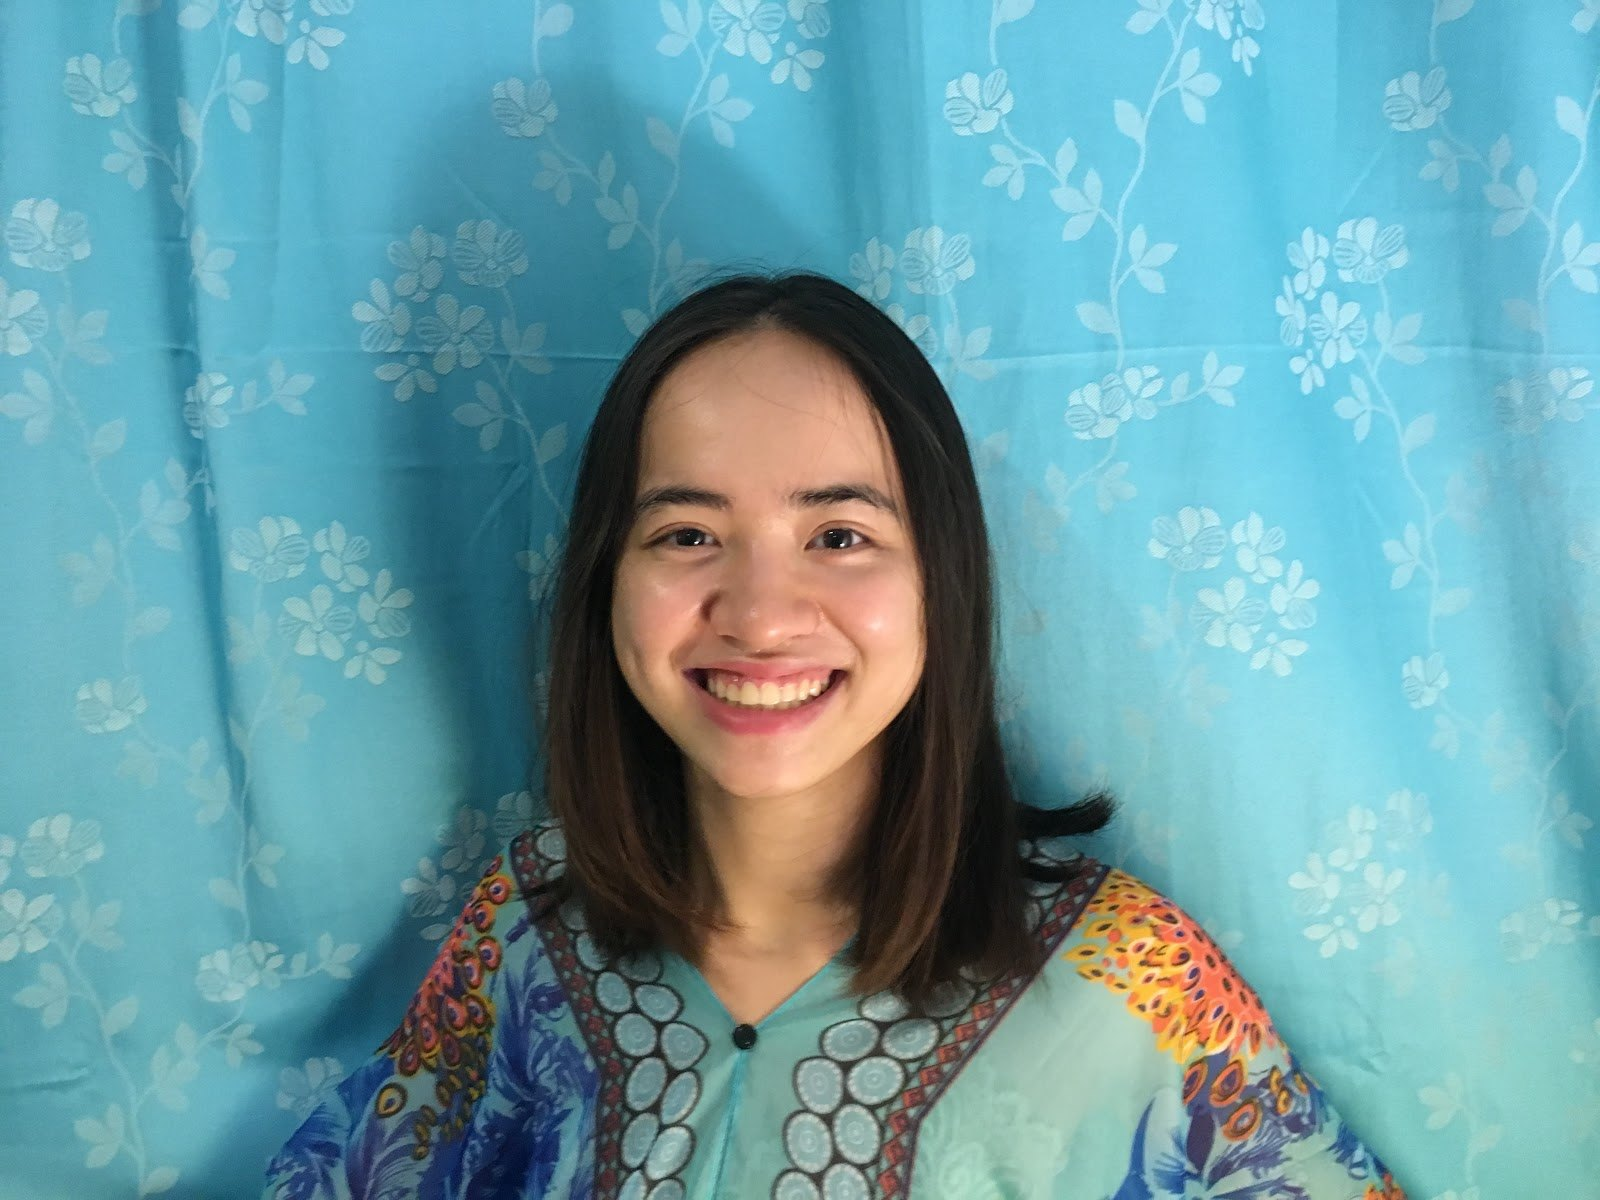
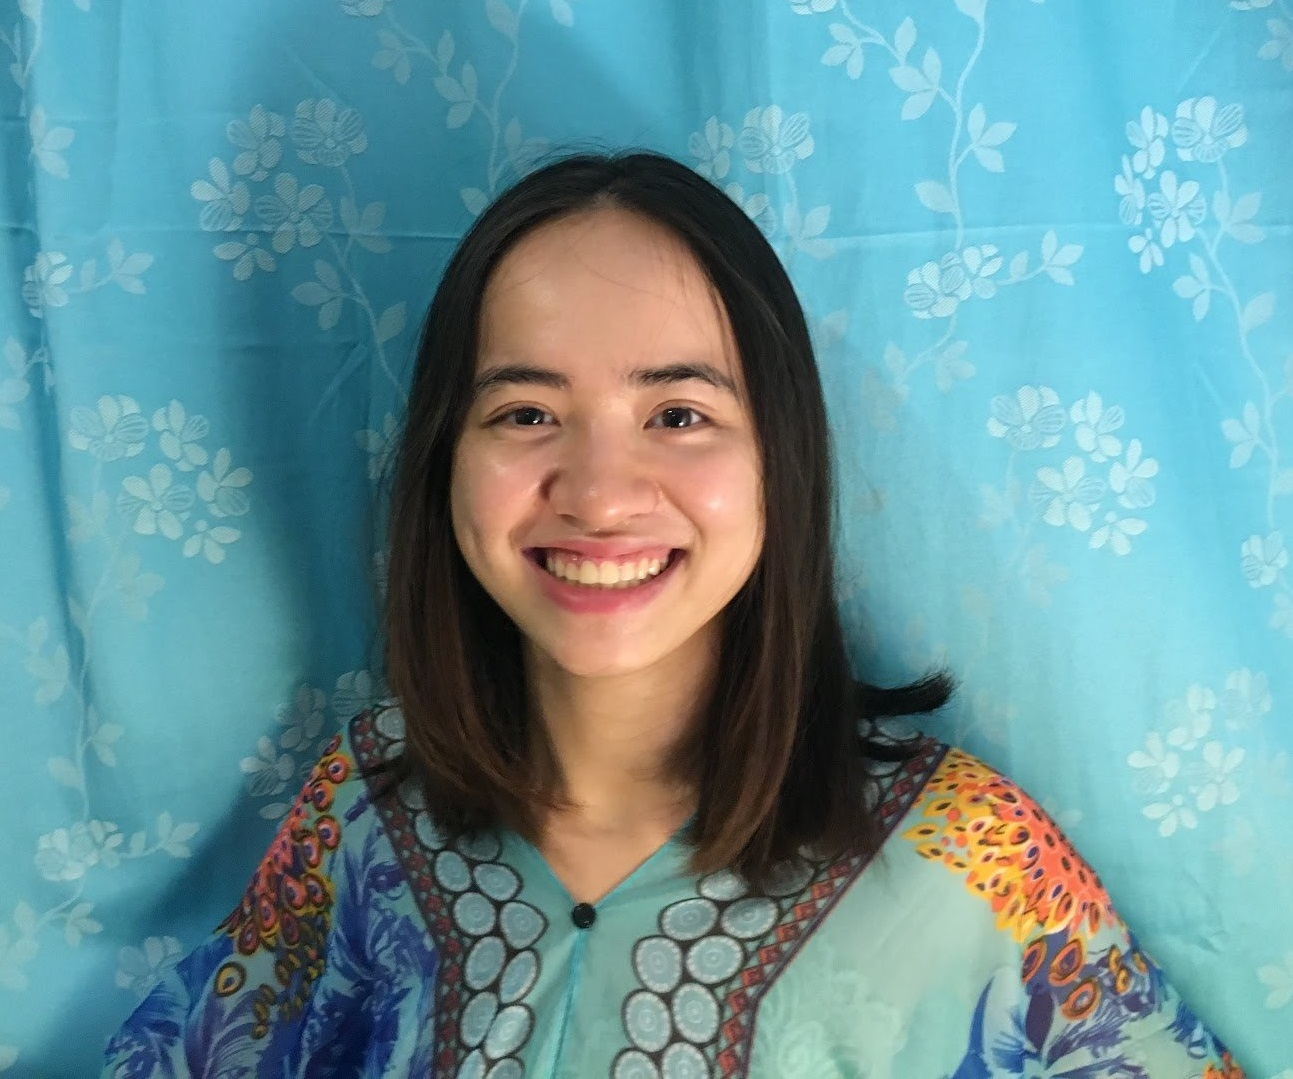
element

diff --git a/assets/css/main.css b/assets/css/main.css
@@ -193,18 +193,19 @@ input, select, textarea {
 }
 
 .about-text {
-	flex: 60%;
+	flex: 55%;
+	padding-right: 40px;
 }
 
 .about-img {
-	flex: 40%;}
+	flex: 30%;
+	}
 
 .about-img .headshot {
 	display:inline-block;
 	width:inherit;
 	height:auto;
 	border-radius:50%;
-	margin-left: 5%;
 	float:right;
 	box-shadow: 10px 10px 10px 0px rgb(206,160,220,0.5);
 }
@@ -229,13 +230,6 @@ input, select, textarea {
 	line-height:1.5em
 }
 
-p .about-text {
-	max-width: 50%;
-}
-
-
-
-
 @media only screen and (max-width: 900px)
 	#about-section #section-subheading {
 		width: 100%;
@@ -244,7 +238,7 @@ p .about-text {
 #about-section #section-subheading {
 	width: 100%;
 	font-size: 1.2em;
-	font-weight: 500;
+	font-weight: 600;
 	line-height: 1.5;
 	margin-top: 1em;
 }
